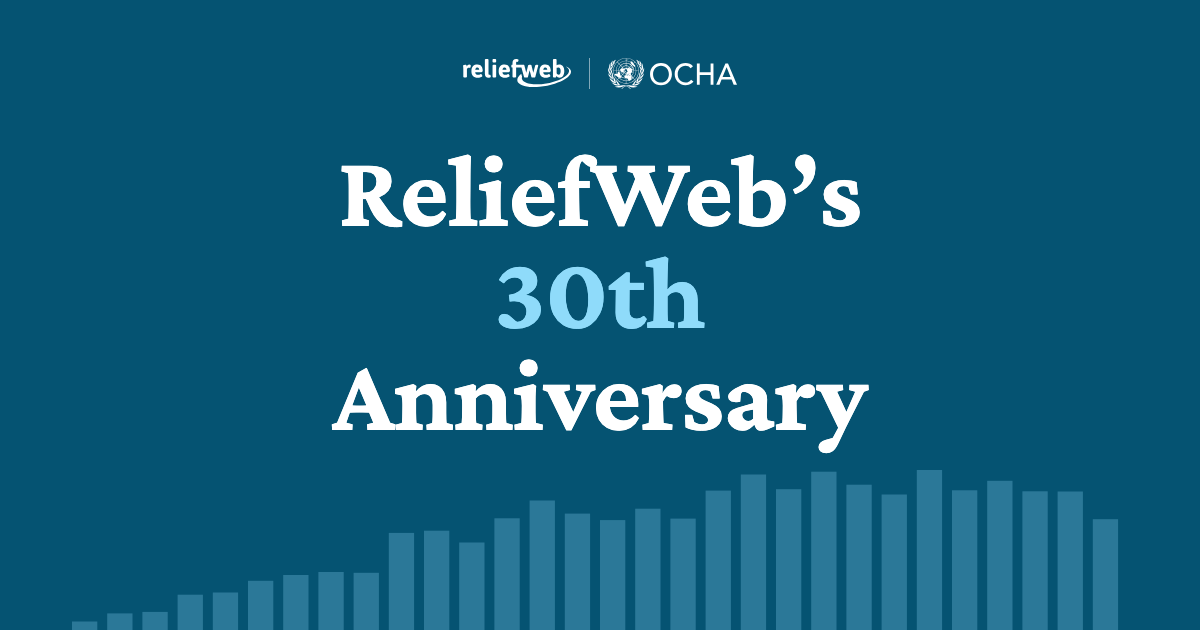
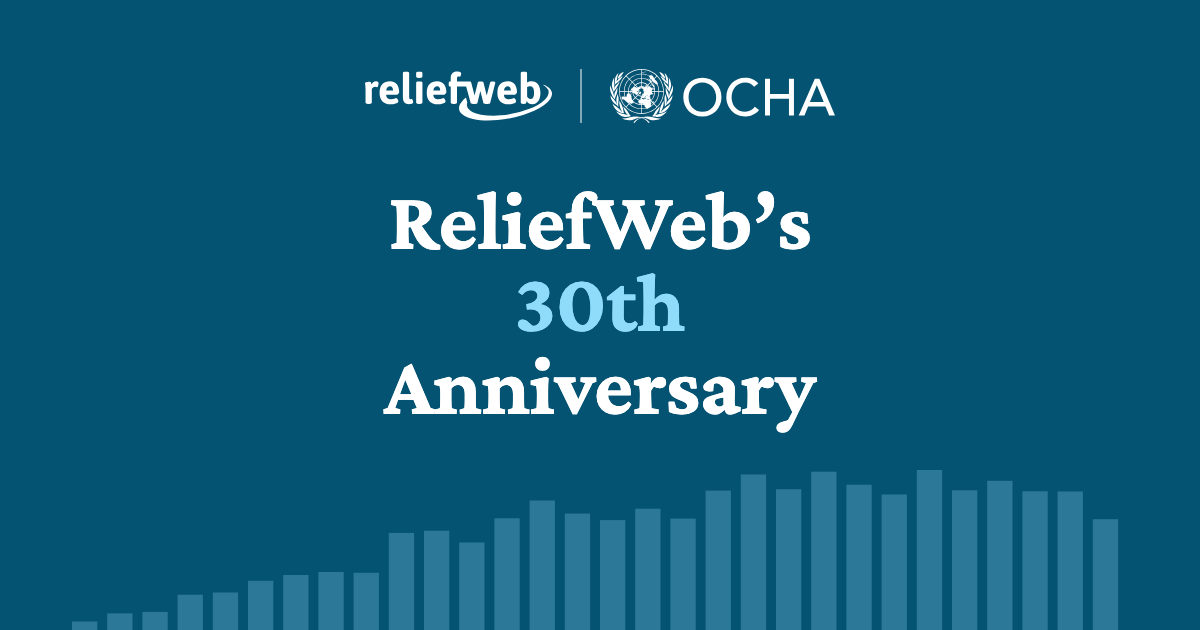
preview image tweaks

Changed region(s): [[0.2775, 0.2413, 0.74, 0.5429], [0.2775, 0.573, 0.74, 0.7238], [0.3083, 0.0905, 0.7092, 0.2111]]

diff --git a/src/routes/+page.svelte b/src/routes/+page.svelte
@@ -29,7 +29,7 @@
   <meta property="og:description" content={description} />
   <!-- Absolute, since link previews ignore relative image paths. Bump ?v= when
        the image changes: Slack caches previews by image URL. -->
-  <meta property="og:image" content="https://ocha-dap.github.io/reliefweb-at-30/share.png?v=2" />
+  <meta property="og:image" content="https://ocha-dap.github.io/reliefweb-at-30/share.png?v=3" />
   <meta property="og:image:width" content="1200" />
   <meta property="og:image:height" content="630" />
   <meta property="og:image:alt" content={title} />
